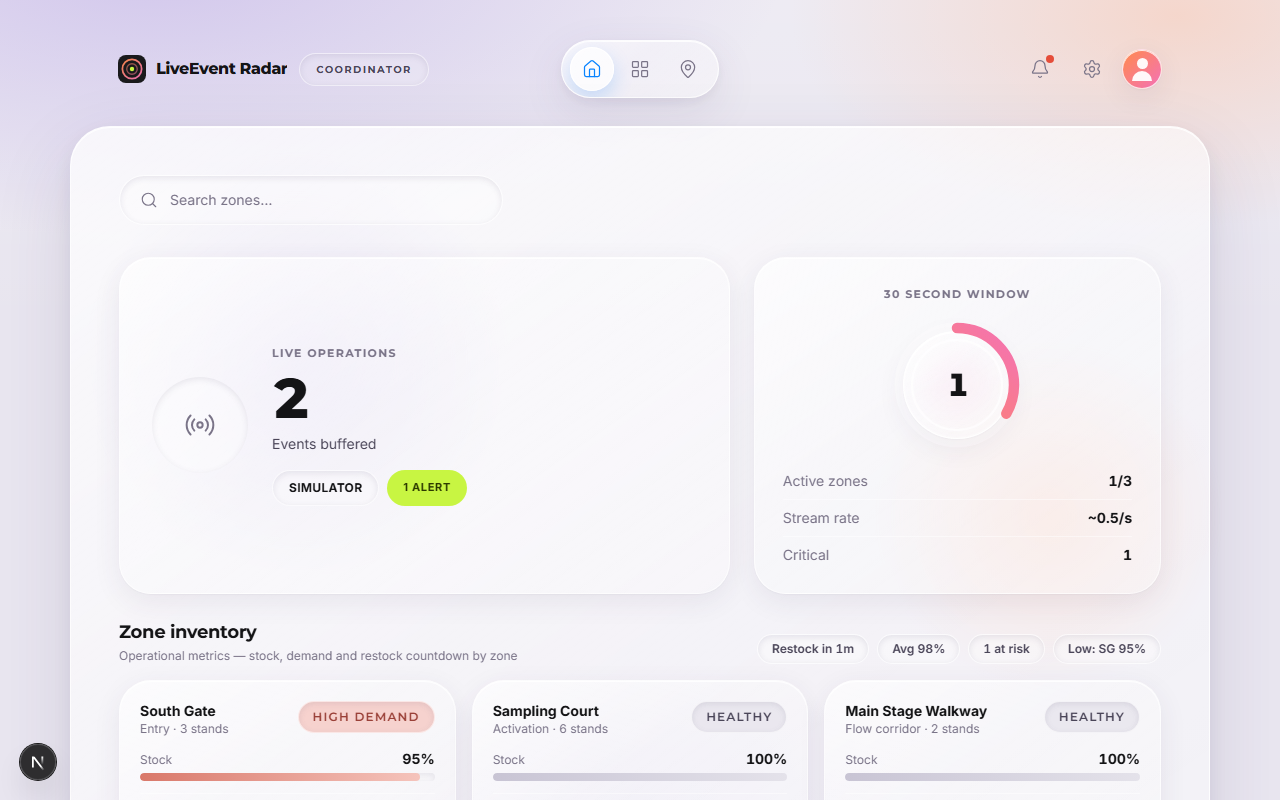
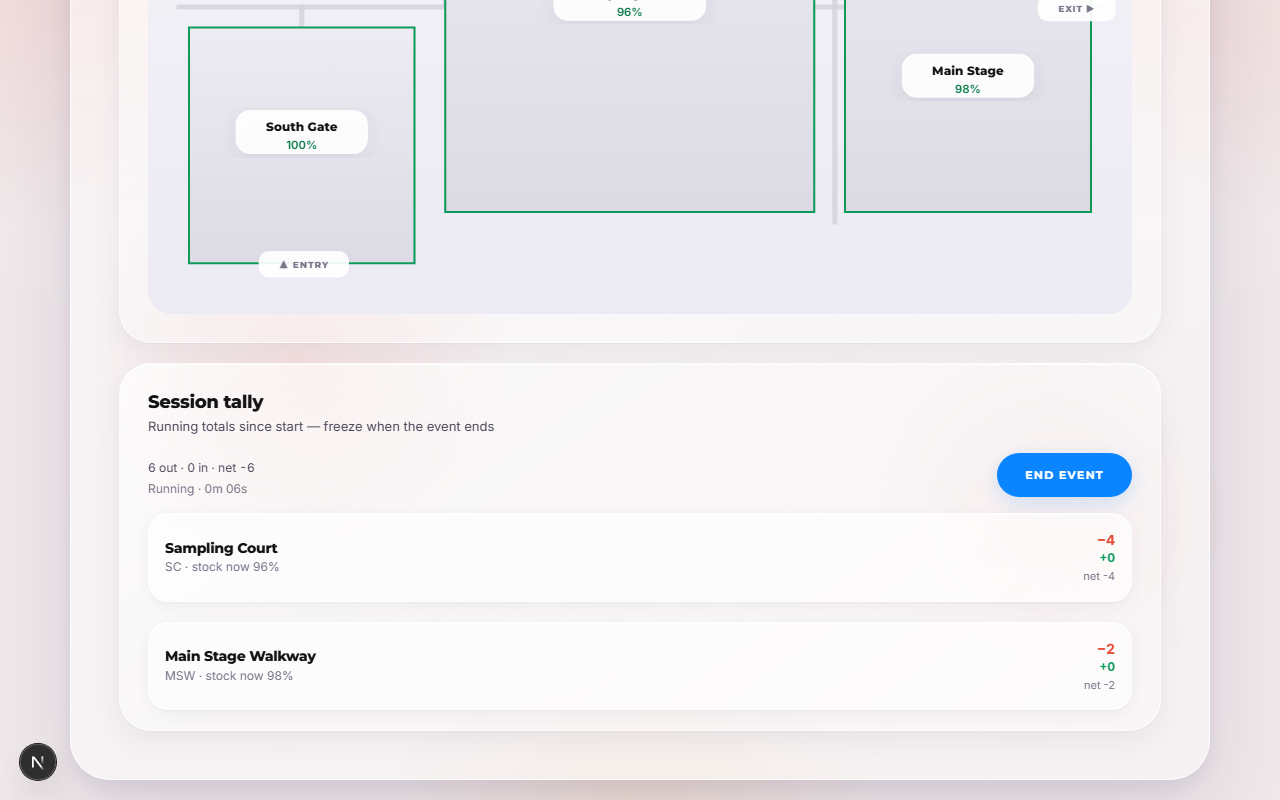
docs: refresh README screenshots for Session tally UI
Replace preview PNGs with current Command Center and Live dashboard captures; fix Session tally elapsed-time hydration.

diff --git a/e2e/capture-readme.spec.ts b/e2e/capture-readme.spec.ts
@@ -1,0 +1,80 @@
+/**
+ * One-shot README screenshot refresh.
+ * Usage: npx playwright test e2e/capture-readme.spec.ts --project=desktop
+ */
+import { expect, test } from "@playwright/test";
+import path from "node:path";
+
+const OUT = path.join(process.cwd(), "docs", "assets", "readme");
+
+test.describe.configure({ mode: "serial" });
+
+test.skip(
+  !process.env.CAPTURE_README,
+  "Set CAPTURE_README=1 to refresh docs/assets/readme PNGs"
+);
+
+test("capture README screenshots", async ({ page }) => {
+  await page.setViewportSize({ width: 1280, height: 800 });
+
+  // —— Command Center ——
+  await page.goto("/");
+  await expect(
+    page.getByRole("heading", { name: "Session tally" })
+  ).toBeVisible();
+  await page.waitForTimeout(5500);
+  await expect(page.locator(".bry-incident-row").first()).toBeVisible({
+    timeout: 15_000,
+  });
+
+  // README preview: map + Session tally in frame (not just the KPI hero)
+  await page
+    .getByRole("heading", { name: "Session tally" })
+    .scrollIntoViewIfNeeded();
+  await page.waitForTimeout(500);
+  await page.screenshot({
+    path: path.join(OUT, "command-center-activity.png"),
+    type: "png",
+  });
+
+  await page.evaluate(() => window.scrollTo(0, 0));
+  await page.waitForTimeout(300);
+  await page.screenshot({
+    path: path.join(OUT, "hero-command-center.png"),
+    type: "png",
+  });
+  await page.screenshot({
+    path: path.join(OUT, "command-center-full.png"),
+    type: "png",
+    fullPage: true,
+  });
+
+  const map = page.locator("#venue-map");
+  await map.scrollIntoViewIfNeeded();
+  await page.waitForTimeout(400);
+  await map.screenshot({
+    path: path.join(OUT, "hero-venue-map-heat.png"),
+    type: "png",
+  });
+
+  // —— Live dashboard ——
+  await page.goto("/dashboard");
+  await expect(
+    page.getByRole("heading", { name: "Live dashboard", level: 1 })
+  ).toBeVisible();
+  await page.waitForTimeout(4500);
+  await expect(page.locator(".bry-event-row").first()).toBeVisible({
+    timeout: 15_000,
+  });
+  await expect(page.locator("[data-venue-leaflet-map]")).toBeVisible();
+
+  await page.screenshot({
+    path: path.join(OUT, "telemetry-dashboard.png"),
+    type: "png",
+  });
+  await page.screenshot({
+    path: path.join(OUT, "telemetry-dashboard-full.png"),
+    type: "png",
+    fullPage: true,
+  });
+});

diff --git a/components/SessionTallyPanel.tsx b/components/SessionTallyPanel.tsx
@@ -32,23 +32,30 @@ export function SessionTallyPanel({ snapshots }: SessionTallyPanelProps) {
   const newSession = useSessionStore((s) => s.newSession);
   const selectZone = useSessionStore((s) => s.selectZone);
 
-  const [now, setNow] = useState(() => Date.now());
+  const [now, setNow] = useState<number | null>(null);
   const frozen = endedAt !== null;
+  const mounted = now !== null;
 
   useEffect(() => {
-    if (frozen) return undefined;
+    setNow(Date.now());
+  }, []);
+
+  useEffect(() => {
+    if (frozen || !mounted) return undefined;
     const id = window.setInterval(() => setNow(Date.now()), 1000);
     return () => window.clearInterval(id);
-  }, [frozen]);
+  }, [frozen, mounted]);
+
+  const clock = now ?? startedAt;
 
   const tally = useMemo(
     () =>
       deriveSessionTally(events, {
         startedAt,
         endedAt,
-        now,
+        now: clock,
       }),
-    [events, startedAt, endedAt, now]
+    [events, startedAt, endedAt, clock]
   );
 
   const stockByZone = useMemo(
@@ -56,7 +63,7 @@ export function SessionTallyPanel({ snapshots }: SessionTallyPanelProps) {
     [snapshots]
   );
 
-  const elapsedMs = (endedAt ?? now) - startedAt;
+  const elapsedMs = (endedAt ?? clock) - startedAt;
 
   return (
     <div className="flex flex-col gap-4">
@@ -71,8 +78,8 @@ export function SessionTallyPanel({ snapshots }: SessionTallyPanelProps) {
             {tally.totals.net}
           </p>
           <p className="mt-1 text-xs text-(--text-muted)">
-            {frozen ? "Event ended · " : "Running · "}
-            {formatElapsed(elapsedMs)}
+            {frozen ? "Event ended" : "Running"}
+            {mounted ? ` · ${formatElapsed(elapsedMs)}` : ""}
             {frozen ? " frozen" : ""}
           </p>
         </div>
